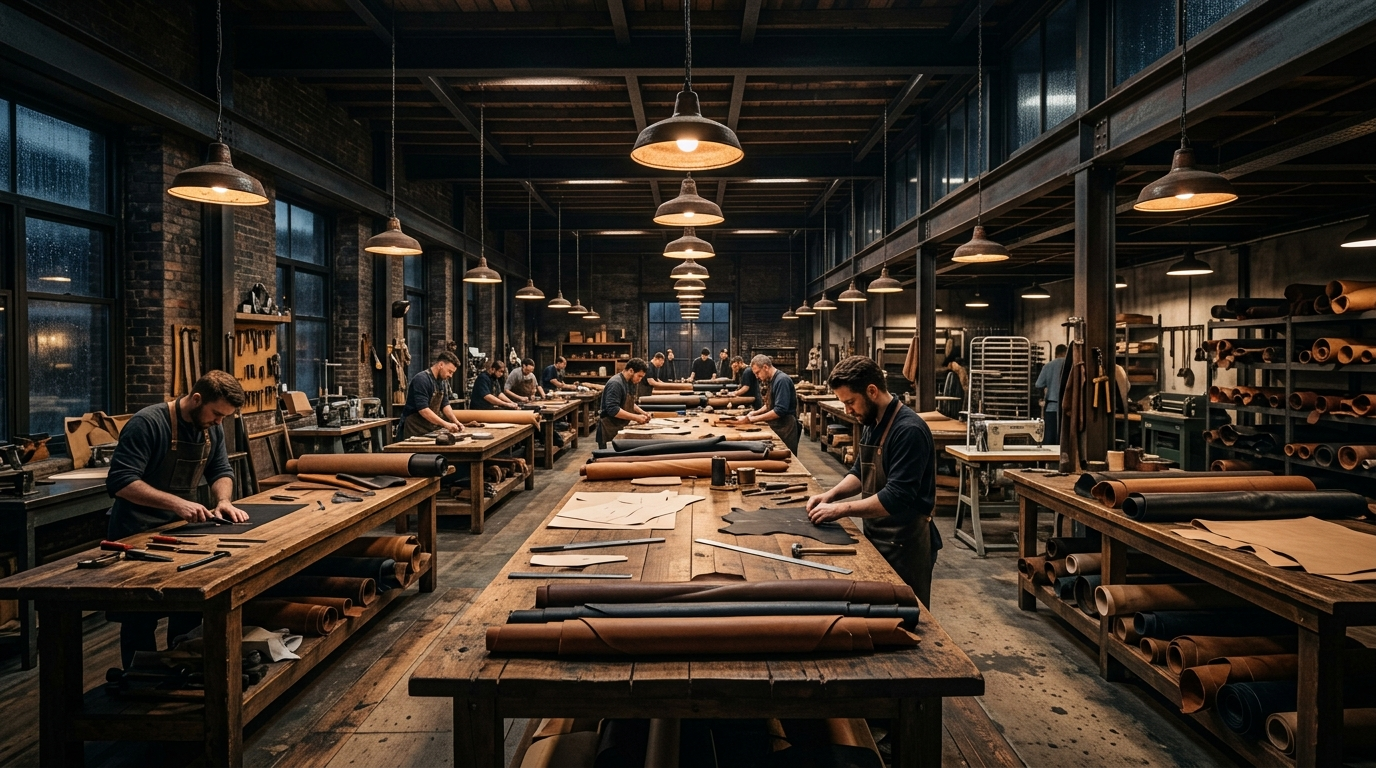
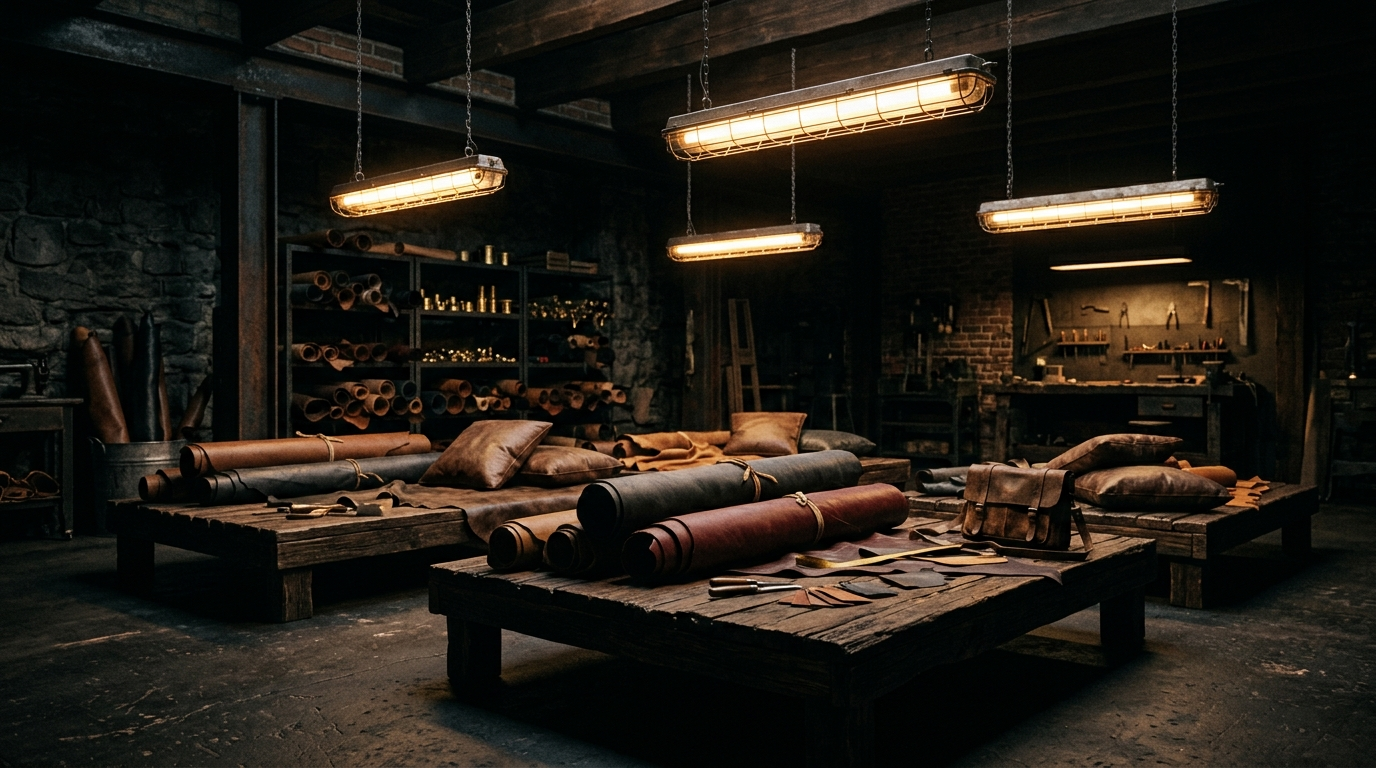
feat(shop): redesign bulk orders and b2b section matching reference

diff --git a/src/app/shop/page.tsx b/src/app/shop/page.tsx
@@ -356,71 +356,80 @@ export default function ShopPage() {
           )}
 
           {/* Bulk Orders & B2B Partnerships Banner */}
-          <div className="relative overflow-hidden border border-[#7A5C22]/40 bg-[#141312] p-8 sm:p-12 lg:p-14 mt-16 sm:mt-24 shadow-2xl">
+          <div className="relative overflow-hidden rounded-2xl md:rounded-[22px] border border-[#7A5C22]/35 bg-[#0C0B0A] px-6 py-10 sm:px-10 sm:py-12 md:px-12 md:py-14 lg:px-14 lg:py-14 mt-16 sm:mt-24 shadow-[0_20px_50px_rgba(0,0,0,0.85)]">
             {/* Background Image & Gradient */}
             <div className="absolute inset-0 z-0">
               <Image
                 src="/images/shop/b2b-bg.jpg"
-                alt="Leather Manufacturing Factory"
+                alt="Bulk Orders and B2B Leather Manufacturing"
                 fill
+                priority
                 sizes="100vw"
                 className="object-cover object-center select-none"
               />
-              <div className="absolute inset-0 bg-[#0B0B0B]/85 backdrop-blur-[1px]" />
-              <div className="absolute inset-0 bg-gradient-to-r from-[#0B0B0B] via-[#0B0B0B]/80 to-transparent" />
+              <div className="absolute inset-0 bg-black/60 backdrop-blur-[0.5px]" />
+              <div className="absolute inset-0 bg-gradient-to-r from-black/85 via-black/60 to-black/80" />
             </div>
 
             {/* Banner Content Grid */}
-            <div className="relative z-10 grid grid-cols-1 lg:grid-cols-12 gap-8 lg:gap-12 items-center">
+            <div className="relative z-10 grid grid-cols-1 lg:grid-cols-12 gap-8 lg:gap-8 items-center">
               {/* Left Column: Headline, Copy & WhatsApp CTA */}
-              <div className="lg:col-span-7 space-y-5">
-                <h2 className="font-serif text-2xl sm:text-3xl lg:text-4xl font-bold uppercase tracking-[0.06em] text-[#E0C681] leading-tight">
+              <div className="lg:col-span-8 flex flex-col items-start text-left">
+                <h2 className="font-serif text-2xl sm:text-3xl lg:text-[34px] xl:text-[38px] font-normal uppercase tracking-[0.08em] sm:tracking-[0.1em] text-[#CCA855] leading-tight sm:leading-snug">
                   Bulk Orders & B2B <br />
                   Partnerships
                 </h2>
 
-                <p className="max-w-xl text-xs sm:text-sm text-[#E5DFD3]/80 leading-relaxed font-light">
+                <p className="max-w-xl text-xs sm:text-[13px] md:text-sm text-[#A8A49C] leading-relaxed font-light mt-3 sm:mt-4">
                   Looking to stock Spartan Leather or need a custom fleet of
                   equipment for your business? We offer exclusive wholesale
                   pricing and custom branding.
                 </p>
 
-                <div className="pt-2">
+                <div className="mt-6 sm:mt-8">
                   <a
                     href={b2bWhatsAppUrl}
                     target="_blank"
                     rel="noopener noreferrer"
-                    className="btn-spartan inline-flex items-center justify-center gap-2.5 px-8 py-3.5 sm:px-9 sm:py-4 rounded-md bg-[#25D366] text-white font-bold text-xs sm:text-[13px] uppercase tracking-[0.18em] shadow-[0_8px_25px_rgba(37,211,102,0.3)] hover:bg-[#20bd5a] hover:shadow-[0_12px_32px_rgba(37,211,102,0.45)]"
+                    className="inline-flex items-center justify-center gap-2.5 px-6 sm:px-7 py-3 sm:py-3.5 rounded-lg sm:rounded-xl bg-[#25D366] text-white font-bold text-xs sm:text-[13px] uppercase tracking-wide shadow-[0_6px_22px_rgba(37,211,102,0.32)] hover:bg-[#20ba59] hover:shadow-[0_8px_28px_rgba(37,211,102,0.48)] hover:scale-[1.02] active:scale-[0.98] transition-all duration-200 cursor-pointer"
                   >
                     <svg
-                      className="w-5 h-5 fill-current"
+                      className="w-5 h-5 fill-current flex-shrink-0"
                       viewBox="0 0 24 24"
                       xmlns="http://www.w3.org/2000/svg"
                     >
                       <path d="M12.04 2c-5.46 0-9.91 4.45-9.91 9.91 0 1.75.46 3.45 1.32 4.95L2.05 22l5.25-1.38c1.45.79 3.08 1.21 4.74 1.21 5.46 0 9.91-4.45 9.91-9.91 0-2.65-1.03-5.14-2.9-7.01A9.82 9.82 0 0 0 12.04 2m.01 1.67c2.2 0 4.26.86 5.82 2.42a8.23 8.23 0 0 1 2.41 5.83c0 4.54-3.7 8.24-8.24 8.24-1.48 0-2.93-.4-4.2-1.15l-.3-.18-3.12.82.83-3.04-.2-.31a8.2 8.2 0 0 1-1.26-4.38c0-4.54 3.7-8.24 8.24-8.24m4.54 11.66c-.25-.13-1.47-.72-1.7-.81-.23-.08-.39-.13-.56.13-.17.25-.64.81-.79.97-.14.17-.29.19-.54.06-.25-.13-1.06-.39-2.03-1.25-.75-.67-1.26-1.5-1.41-1.75-.15-.25-.02-.39.11-.51.11-.11.25-.29.38-.44.12-.14.17-.25.25-.42.08-.17.04-.31-.02-.44s-.56-1.36-.77-1.86c-.2-.49-.41-.42-.56-.43h-.48c-.17 0-.44.06-.67.31-.23.25-.88.86-.88 2.1 0 1.24.9 2.44 1.03 2.61.12.17 1.77 2.7 4.29 3.79.6.26 1.07.41 1.43.53.6.19 1.15.16 1.58.1.48-.07 1.47-.6 1.68-1.18.21-.58.21-1.07.15-1.18-.06-.11-.23-.17-.48-.29" />
                     </svg>
-                    <span>Inquire via WhatsApp</span>
+                    <span>INQUIRE VIA WHATSAPP</span>
                   </a>
                 </div>
               </div>
 
-              {/* Right Column: Statistics */}
-              <div className="lg:col-span-5 flex flex-row lg:flex-col justify-around lg:justify-center items-start lg:items-end gap-6 sm:gap-8 border-t lg:border-t-0 lg:border-l border-[#7A5C22]/30 pt-6 lg:pt-0 lg:pl-10">
-                <div className="text-left lg:text-right">
-                  <div className="font-serif text-3xl sm:text-4xl lg:text-5xl font-bold text-[#E0C681]">
-                    500+
-                  </div>
-                  <div className="text-[10px] sm:text-xs uppercase tracking-[0.24em] text-[#E5DFD3]/70 font-medium mt-1">
-                    Corporate Clients
-                  </div>
-                </div>
+              {/* Right Column: Statistics with Vertical Gold Accent Bar */}
+              <div className="lg:col-span-4 flex items-center lg:justify-end pt-6 lg:pt-0 border-t border-[#7A5C22]/30 lg:border-t-0">
+                <div className="flex items-center gap-5 sm:gap-6">
+                  {/* Slender Vertical Gold Divider Line */}
+                  <div className="w-[1.5px] h-[105px] sm:h-[120px] bg-gradient-to-b from-[#C29B38]/30 via-[#C29B38] to-[#C29B38]/30 flex-shrink-0" />
 
-                <div className="text-left lg:text-right">
-                  <div className="font-serif text-3xl sm:text-4xl lg:text-5xl font-bold text-[#E0C681]">
-                    100%
-                  </div>
-                  <div className="text-[10px] sm:text-xs uppercase tracking-[0.24em] text-[#E5DFD3]/70 font-medium mt-1">
-                    Genuine Leather
+                  {/* Two Left-Aligned Stats */}
+                  <div className="flex flex-col justify-between py-0.5 space-y-5 sm:space-y-6 text-left">
+                    <div>
+                      <div className="font-serif text-3xl sm:text-4xl lg:text-[42px] font-normal text-[#CCA855] leading-none">
+                        500+
+                      </div>
+                      <div className="text-[10px] sm:text-[11px] uppercase tracking-[0.22em] text-[#8E8B85] font-medium mt-1.5">
+                        Corporate Clients
+                      </div>
+                    </div>
+
+                    <div>
+                      <div className="font-serif text-3xl sm:text-4xl lg:text-[42px] font-normal text-[#CCA855] leading-none">
+                        100%
+                      </div>
+                      <div className="text-[10px] sm:text-[11px] uppercase tracking-[0.22em] text-[#8E8B85] font-medium mt-1.5">
+                        Genuine Leather
+                      </div>
+                    </div>
                   </div>
                 </div>
               </div>
